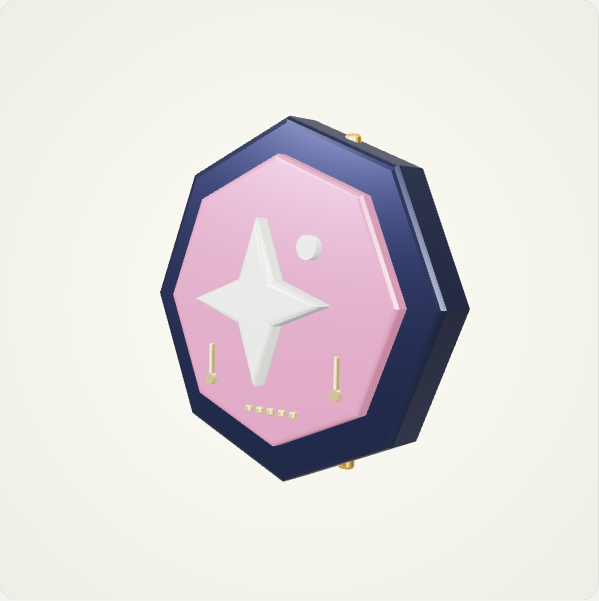
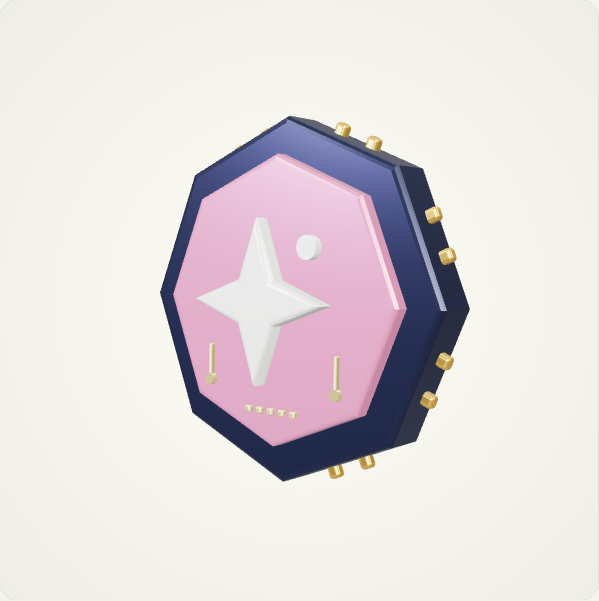
feat: enrich chip geometry and exploded inspection (round 3)

diff --git a/index.html b/index.html
@@ -19,7 +19,7 @@
       <div class="model-navigation"><button id="previous" aria-label="上一件藏品">←</button><span id="position">01 / 13</span><button id="next" aria-label="下一件藏品">→</button><button id="share">分享藏品</button></div>
       <div class="controls"><button id="rotate" aria-pressed="false">自动旋转</button><button id="wireframe" aria-pressed="false">线框视图</button></div><button class="download primary" id="download-glb">下载 GLB 模型 <span>↗</span></button><button class="download secondary" id="download-stl">下载 STL 几何 <span>↓</span></button><p class="file-note">GLB 保留材质 · STL 为几何模型<br>供展示与建模参考，打印前需检查与处理。</p><p id="status" role="status" aria-live="polite"></p><input id="share-link" aria-label="藏品分享链接" readonly hidden></aside>
     </section>
-    <div class="view-tools" role="group" aria-label="三维视角工具"><span>观察视角</span><button data-view="front">正面</button><button data-view="back">背面</button><button data-view="side">侧面</button><i></i><button id="zoom-in" aria-label="放大模型">＋</button><button id="zoom-out" aria-label="缩小模型">−</button><button id="fullscreen">全屏查看 ⛶</button><small>键盘：方向键旋转，＋ / − 缩放，Home 复位</small></div>
+    <div class="view-tools" role="group" aria-label="三维视角工具"><span>观察视角</span><button data-view="front">正面</button><button data-view="back">背面</button><button data-view="side">侧面</button><i></i><button id="zoom-in" aria-label="放大模型">＋</button><button id="zoom-out" aria-label="缩小模型">−</button><button id="explode" aria-pressed="false">分层展开</button><button id="fullscreen">全屏查看 ⛶</button><small>键盘：方向键旋转，＋ / − 缩放，Home 复位</small></div>
     <section id="collection" class="collection"><div class="section-head"><div><p class="eyebrow">CURATED FOR CURIOSITY</p><h2>每件藏品，都有一个故事。</h2></div><span id="count">13 件藏品</span></div><div class="filters" role="group" aria-label="筛选藏品"><button data-filter="all" aria-pressed="true">全部藏品 <span>13</span></button><button data-filter="coin" aria-pressed="false">算力币 <span>01</span></button><button data-filter="chip" aria-pressed="false">核心芯片 <span>08</span></button><button data-filter="data" aria-pressed="false">优质数据 <span>04</span></button></div><div id="cards" class="cards"></div></section>
     <section class="closing"><span class="closing-icon">✧</span><div><p class="eyebrow">SMALL OBJECTS. BIG IDEAS.</p><h2>把抽象的概念，握在想象里。</h2><p>模型是知识的入口。保持好奇，也别忘了核实与思考。</p></div><a href="https://liyancheng071007.github.io/AI-planet/" target="_blank" rel="noopener">开始修复 AI 星球 ↗</a></section>
   </main>

diff --git a/src/models.js b/src/models.js
@@ -45,7 +45,26 @@ export function createModel(item){
     if(i===1||i===7)box(panel,i===7?1.45:1.7,i===7?1.95:1.7,.16,color,0,0,.2);
     else if(i===6)shape(panel,[[-.82,.83],[.82,.83],[.75,-.35],[0,-1],[-.75,-.35]],.16,color,.2);
     else shape(panel,regular([6,4,64,4,8,3,5,8][i],i===5?1.13:1.05,i===3?0:Math.PI/2),.16,color,.2);
-    for(let k=0;k<4;k++)for(const sign of [-1,1])box(g,.09,.26,.07,gold,(k-1.5)*.24,sign*.85,-.02);
+    const outline=i===1?[[-.85,-.85],[.85,-.85],[.85,.85],[-.85,.85]]:
+      i===7?[[-.725,-.975],[.725,-.975],[.725,.975],[-.725,.975]]:
+      i===6?[[-.82,.83],[.82,.83],[.75,-.35],[0,-1],[-.75,-.35]]:
+      regular(i===2?8:[6,4,64,4,8,3,5,8][i],i===5?1.13:1.05,i===3?0:Math.PI/2);
+    for(let k=0;k<outline.length;k++){
+      const a=outline[k],b=outline[(k+1)%outline.length];
+      for(const t of [.35,.65]){
+        const pin=box(g,.08,.22,.07,gold,a[0]+(b[0]-a[0])*t,a[1]+(b[1]-a[1])*t,-.02);
+        pin.rotation.z=Math.atan2(b[1]-a[1],b[0]-a[0]);
+      }
+    }
+    // Backplate and surface-mounted traces make the reverse worth inspecting.
+    disk(g,.43,.04,material('#242d43',.3,.4),0,0,-.16);
+    for(const x of [-.23,0,.23]){
+      bar(g,x,-.29,x,.29,-.2,gold,.025);
+      disk(g,.047,.025,rim,x,.29,-.21,16);
+      disk(g,.047,.025,rim,x,-.29,-.21,16);
+    }
+    box(g,.32,.26,.08,dark,0,0,-.24);
+    for(let k=0;k<=i;k++)box(g,.045,.06,.03,rim,(k-i/2)*.07,-.43,-.18);
     symbol(g,i,white,.36);
     for(const x of [-.48,.48]){disk(g,.035,.04,rim,x,-.5,.26,16);bar(g,x,-.49,x,-.28,.25,rim,.022);}
     for(let k=0;k<=i;k++)box(g,.045,.045,.045,rim,(k-i/2)*.085,-.65,.25);
@@ -67,6 +86,8 @@ export function createModel(item){
     for(let k=0;k<3;k++)disk(g,.035,.04,rim,(k-1)*.12,-.65,.3,16);
   }
   g.updateMatrixWorld(true);
+  g.traverse(o=>{if(o.isMesh){o.userData.baseZ=o.position.z;const z=o.getWorldPosition(new T.Vector3()).z;o.userData.layer=z>.12?1:z<-.12?-1:0;}});
   return g;
 }
+export function explodeModel(g,amount){g.traverse(o=>{if(o.isMesh)o.position.z=o.userData.baseZ+o.userData.layer*amount;});g.updateMatrixWorld(true);}
 export function disposeModel(g){const geometries=new Set(),materials=new Set();g.traverse(o=>{if(o.isMesh){geometries.add(o.geometry);materials.add(o.material);}});geometries.forEach(x=>x.dispose());materials.forEach(x=>x.dispose());}

diff --git a/src/app.js b/src/app.js
@@ -4,10 +4,10 @@ import { RoomEnvironment } from 'three/addons/environments/RoomEnvironment.js';
 import { GLTFExporter } from 'three/addons/exporters/GLTFExporter.js';
 import { STLExporter } from 'three/addons/exporters/STLExporter.js';
 import {catalog,categories} from './catalog.js';
-import {createModel,disposeModel} from './models.js';
+import {createModel,disposeModel,explodeModel} from './models.js';
 
 const $=s=>document.querySelector(s),viewport=$('#viewport');
-let renderer,scene,camera,controls,model,selected=catalog[0],filter='all',wireframe=false,auto=false;
+let renderer,scene,camera,controls,model,selected=catalog[0],filter='all',wireframe=false,auto=false,exploded=false;
 const reduced=matchMedia('(prefers-reduced-motion: reduce)').matches;
 function cards(){
   const list=catalog.filter(x=>filter==='all'||x.type===filter);
@@ -21,6 +21,7 @@ function select(id){
   if(scene)scene.add(model);
   model.rotation.set(-.18,-.32,.06);
   model.traverse(o=>{if(o.isMesh)o.material.wireframe=wireframe;});
+  explodeModel(model,exploded?.35:0);
   $('#object-name').textContent=selected.name;$('#object-code').textContent=selected.en;
   $('#object-category').textContent=categories[selected.type]+' / OBJECT '+String(catalog.indexOf(selected)+1).padStart(3,'0');
   $('#object-form').textContent=selected.concept||selected.form;
@@ -104,4 +105,8 @@ $('#share').onclick=async()=>{
 $('#fullscreen').onclick=async()=>{
   try{if(document.fullscreenElement)await document.exitFullscreen();else await $('.viewport-wrap').requestFullscreen();}
   catch{$('#status').textContent='此浏览器不支持全屏，可使用缩放和旋转查看。';}
+};
+$('#explode').onclick=()=>{
+  exploded=!exploded;explodeModel(model,exploded?.35:0);$('#explode').setAttribute('aria-pressed',exploded);
+  $('#status').textContent=exploded?'展示层已展开，下载仍为正常装配状态。':'已恢复正常装配状态。';
 };

diff --git a/docs/POLISH_LOG.md b/docs/POLISH_LOG.md
@@ -14,3 +14,10 @@
 - 支持键盘方向键、加减键与Home复位。
 - 深链接直接定位单件模型，复制失败时提供可选中的链接。
 - 验证视角工具、键盘操作、切换和基础浏览器回归。
+
+## 第3轮：实体结构与分层
+
+- 针脚沿每种芯片边缘布置，减少脱离主体的视觉问题。
+- 八块芯片补充背板、电路走线与编号触点。
+- 增加分层展开，下载保持原始装配状态。
+- 验证全部13件网格、STL、展开复原和浏览器操作，更新模型预览。
